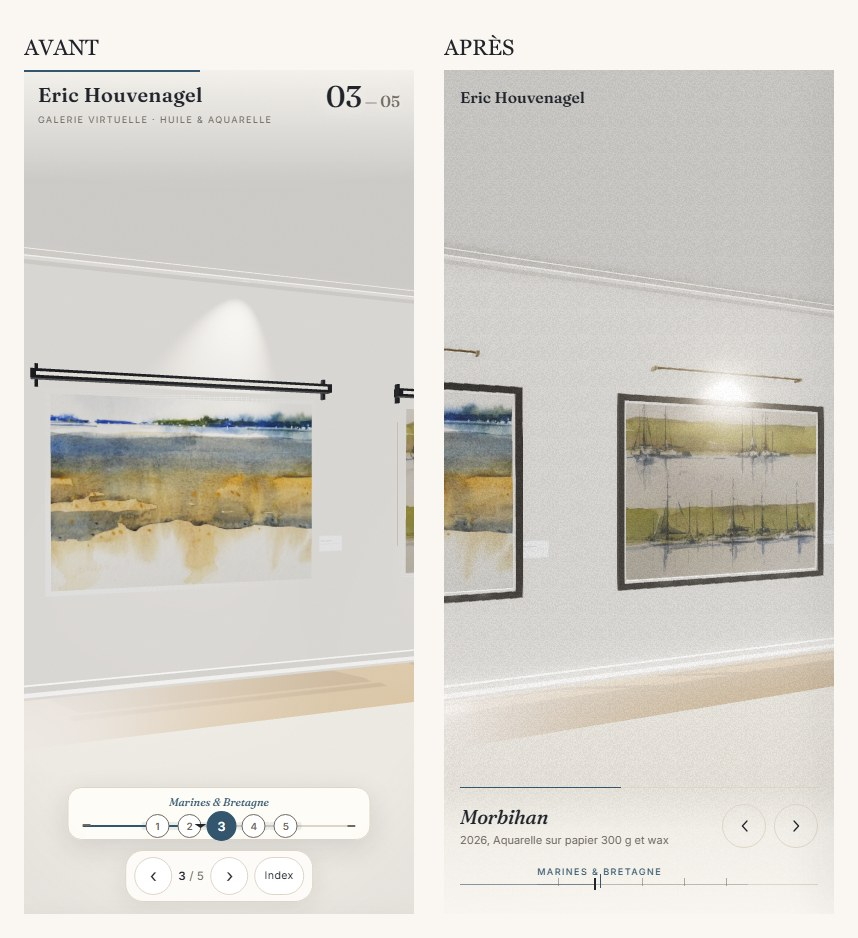
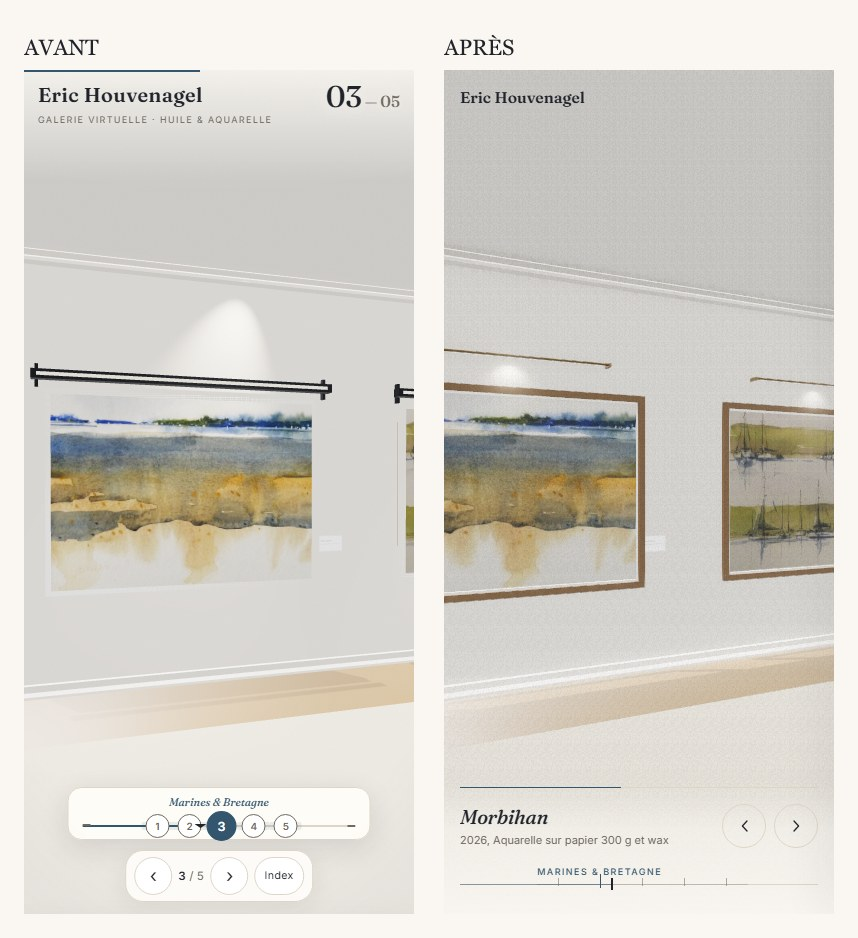
refonte(finition): cadre chêne, plâtre sans motif, halo et grain V1, caméra reculée
Applique les arbitrages retenus.

- frames.ts : cadre « discret » 0x2a2724 (charbon) -> 0x7a5c3a (chêne moyen).
  Un cadre presque noir lisait « galerie contemporaine » et pesait plus que les
  toiles sur un mur clair ; c'est aussi la couleur du guide de style.
- scene.ts : PLASTER_TILE 8,5 m -> 13 m et bumpScale 0,02 -> 0,014. La trame de
  la texture ne se devine plus sur les grands aplats de mur.
- post.ts : bloom.strength 0,30 -> 0,22 (la tache de soleil ne bave plus),
  grain.amount 0,028 -> 0,020. Étalonnage V1 « Pellicule ».
- main.ts : viewDist desktop 2,6 -> 2,85 m, mobile inchangé. La première toile ne
  touche plus le bord au repos. Le cadrage « face à l'œuvre » relève du rythme
  (courbe de dwell), pas de la distance focale.
- rebuild.md : les 8 décisions sont consignées avec leur valeur, et le rythme est
  cadré (« on le fait après ») avec les deux options chiffrées.

Vérifié : tsc --noEmit et vite build propres, 0 erreur console, captures 1440×900
et 390×844 régénérées (planches avant/après, fiche, index, intro).

Generated by Mistral Vibe.

diff --git a/src/gallery/frames.ts b/src/gallery/frames.ts
@@ -124,10 +124,13 @@ let matCache: {
 function materials(): NonNullable<typeof matCache> {
   if (matCache) return matCache;
   const discrete = FRAME_VARIANT === 'discrete';
-  // Variante A : chêne fumé mat (audit A « noyer fumé » 0x2a2724) — l'IBL le sculpte,
-  // pas une couleur claire. Variante B : bois teinté chaud.
+  // Variante A : chêne mat. Le guide de style donne #A08055 pour les cadres : sous
+  // l'exposition 0,95 et l'ACES, un chêne moyen (0x7a5c3a) rend un brun chaud sans
+  // sauter aux yeux. Un cadre charbon (0x2a2724) lisait « galerie contemporaine »
+  // et pesait plus que les toiles sur un mur clair.
+  // Variante B : bois teinté plus clair, avec verre.
   const frame = new THREE.MeshPhysicalMaterial({
-    color: discrete ? 0x2a2724 : 0x7a6444,
+    color: discrete ? 0x7a5c3a : 0x94764d,
     roughness: discrete ? 0.62 : 0.45,
     metalness: 0,
     clearcoat: discrete ? 0.08 : 0.15,

diff --git a/src/gallery/scene.ts b/src/gallery/scene.ts
@@ -23,7 +23,7 @@ interface TexOpts {
 }
 
 /** Échelle de texture du plâtre : 1 tuile = 8,5 m dans les deux directions (P2-4). */
-const PLASTER_TILE = 8.5;
+const PLASTER_TILE = 13;
 /** Échelle de texture du plafond (la tuile suit les UV en mètres de l'extrusion). */
 const CEILING_TILE = 6.4;
 
@@ -440,7 +440,7 @@ export function createScene(
   const plaster = new THREE.MeshStandardMaterial({
     map: plasterTex,
     bumpMap: plasterTex,
-    bumpScale: 0.02,
+    bumpScale: 0.014,
     roughness: 0.94,
     envMapIntensity: 0.3,
   });

diff --git a/src/main.ts b/src/main.ts
@@ -101,7 +101,7 @@ async function boot(): Promise<void> {
   const small = Math.min(window.innerWidth, window.innerHeight) < 640;
   const fine = window.matchMedia('(pointer: fine)').matches;
   const touch = coarse || small;
-  const viewDist = touch ? 4.2 : 2.6;
+  const viewDist = touch ? 4.2 : 2.85;
   const layout = computeLayout(data, viewDist);
   const pixelRatio = Math.min(window.devicePixelRatio, touch ? 1.5 : 2);
   const shadows = !coarse;

diff --git a/src/gallery/post.ts b/src/gallery/post.ts
@@ -94,13 +94,13 @@ export const POST_TUNING = {
     denoise: { rings: 2, samples: 16, radius: 4 },
   },
   bloom: {
-    strength: 0.3,
+    strength: 0.22,
     radius: 0.55,
     threshold: 1.0,
     strengthLow: 0.2,
     thresholdLow: 1.2,
   },
-  grain: { amount: 0.028, hz: 24 },
+  grain: { amount: 0.02, hz: 24 },
   smaa: true,
 } as const;
 

diff --git a/docs/design/rebuild.md b/docs/design/rebuild.md
@@ -43,56 +43,57 @@ Les quatre P0 de l'audit sont traités : cadre hors du mur et passe-partout non 
 luminaires fins qui éclairent vraiment, `emissiveIntensity` de la toile à ~0, chaîne de
 post-processing AO → bloom → ACES → SMAA → grain.
 
-## 3. Ce qu'il reste à trancher
+## 3. Les arbitrages, tranchés
 
-| # | Point | Constat sur les captures | Levier |
+| # | Point | Décision | Valeur livrée |
 |---|---|---|---|
-| 1 | **Couleur du cadre** | le cadre « discret » lit charbon, pas chêne : plus galerie contemporaine que le `#A08055` du guide de style | `FRAME_METRICS` dans `frames.ts` (teinte du bois), ou `FRAME_VARIANT = 'museum'` |
-| 2 | **Motif du plâtre** | la trame de la texture (tuile de 8,5 m) se devine sur les grands aplats de mur | échelle de tuile dans `scene.ts` (`PLASTER_TILE`) + atténuation du `bumpScale` |
-| 3 | **Halo de la tache solaire** | la tache de soleil sur le mur, en haut à gauche, bave un peu avec le bloom | `POST_TUNING.bloom.strength` 0,30 → 0,22 |
-| 4 | **Grain** | ±0,028 à 24 Hz se voit à 100 % ; c'est voulu, mais réglable | `POST_TUNING.grain.amount` |
-| 5 | **Cadrage au repos** | à `t = 0,45` la première toile est coupée par le bord gauche | `pathX` / `viewDist` dans `layout.ts` |
+| 1 | Direction de chrome | **B** — deux amas, le rail *est* le plan | fait |
+| 2 | Fiche d'œuvre | **bord à bord**, rayon 0, filet de 1 px sous l'image (sans lui, l'aquarelle blanche se confondait avec le papier du panneau) | fait |
+| 3 | Étalonnage 3D | **V1 « Pellicule »** : contraste +10 %, halo doux, grain discret | `bloom.strength 0.22`, `grain 0.020`, exposition 0,95 |
+| 4 | Cadres & luminaires | **A « discrète »** : chêne 55 mm, passe-partout 20 mm, tube laiton Ø 22 mm sur 74 % | `FRAME_VARIANT = 'discrete'` |
+| 5 | Index | **non rogné** (`contain`), dans des fenêtres 4/3 de même taille : l'œuvre entière est visible, la grille reste alignée. Rogner une aquarelle pour la faire entrer dans une vignette, c'est décider à la place du peintre de son cadrage | fait |
+| 6 | Intro | **bande de 3 aperçus conservée** : trois vraies toiles valent mieux qu'un mot seul pour donner envie d'entrer, et c'est la seule image du site qui ne soit pas de la 3D | fait |
+| 7 | Mode libre | **entrée dans l'index, pas de bouton permanent** : zéro chrome dans la scène, une seule porte, découvrable. Pas de raccourci clavier seul (un raccourci muet n'est pas découvrable, un raccourci annoncé est du chrome) | fait |
 
-Aucun de ces cinq points n'est bloquant : ce sont des curseurs, chacun sur une constante.
+### Couleur du cadre — chêne, pas charbon
 
-## 4. Rythme de scroll — non engagé, volontairement
+Le cadre « discret » était `0x2a2724`, presque noir : il lisait « galerie contemporaine » et pesait
+plus que les toiles sur un mur clair. Passé à **`0x7a5c3a`** (chêne moyen), qui rend un brun chaud
+sous l'exposition 0,95 + ACES sans sauter aux yeux, et qui est la couleur du guide de style.
 
-L'étape « GSAP ScrollTrigger » n'est **pas** implémentée. Décision et raisons :
+### Motif du plâtre — tuile plus large, bosse plus douce
 
-1. **Il n'y a qu'un seul driver de scroll, et il fonctionne.** `controls.ts` lit `window.scrollY`,
-   en dérive `targetT` et lisse la position. ScrollTrigger n'apporterait pas un driver meilleur ;
-   il apporterait des timelines scrubées, du pinning et du snap — dont on n'a besoin pour aucun
-   des effets visés ici.
-2. **Le coût est réel** : ~45 ko de plus sur un site qui sert déjà 2,8 Mo d'images et un bundle
-   three.js, pour un gain de rythme que l'on peut obtenir autrement.
-3. **Le risque est sur le chemin critique** : la navigation (flèches, clavier, rail, fin de
-   visite) passe toute par ce mapping scroll → caméra. Le réécrire juste avant livraison, sur une
-   branche qui n'a pas encore été vue sur appareil réel, c'est prendre le risque de casser la
-   seule chose que le visiteur utilise vraiment.
+La trame de la texture se devinait sur les grands aplats. `PLASTER_TILE` **8,5 m → 13 m** (moins de
+répétitions sur la longueur du hall) et `bumpScale` **0,02 → 0,014**.
 
-### Ce que « chorégraphier » voudrait dire concrètement
+### Halo et grain — V1, plus retenu
+
+`POST_TUNING.bloom.strength` **0,30 → 0,22** : la tache de soleil ne bave plus sur le mur.
+`grain.amount` **0,028 → 0,020** : présent à 100 %, invisible quand on regarde une toile.
+
+### Cadrage au repos — recul partiel, le reste au rythme
+
+`viewDist` desktop **2,6 → 2,85 m** : la caméra recule de 25 cm, les toiles respirent et la
+première ne touche plus le bord. La cause profonde (la caméra passe *à côté* d'une œuvre, pas
+devant) est un problème de **rythme**, pas de distance focale : c'est la courbe de « dwell » du
+point 4 qui la règle, en faisant s'arrêter la caméra face à chaque toile.
+
+## 4. Rythme de scroll — à lancer, comme convenu
+
+Décision : **on le fait, après**. Le plan est prêt, il ne dépend de rien d'autre.
 
 L'effet recherché (le rythme d'une salle de musée) est un **temps d'arrêt devant chaque œuvre**,
-pas une animation de plus. La façon la moins risquée de l'obtenir est une courbe, pas une
-bibliothèque :
+pas une animation de plus. Deux façons, par ordre de préférence :
 
-```
-t scroll (0 → 1)  ──►  camZ
-linéaire aujourd'hui : camZ = lerp(zFirst, zLast, t)
-proposé               : camZ = lerp(zFirst, zLast, dwell(t))
-                        où dwell() est monotone, dérivée ~0 sur ±8 % autour de chaque œuvre
-```
+1. **Courbe de « dwell », sans dépendance** (recommandé) — une fonction pure dans `layout.ts`,
+   ~25 lignes : `camZ = lerp(zFirst, zLast, dwell(t))` où `dwell()` est monotone et de dérivée
+   nulle sur ±8 % autour de chaque œuvre. La caméra ralentit devant chaque toile et accélère
+   entre deux, sans que le visiteur ait à arrêter de scroller. `progressT()` et la détection de
+   fin ne bougent pas. Repli linéaire en `prefers-reduced-motion`.
+2. **GSAP ScrollTrigger** — `ScrollTrigger` sur `#scroll-spacer`, `scrub: 0.6`, une seule timeline
+   de caméra, `post.render` gardé hors de la boucle GSAP, un seul `ScrollTrigger.refresh()` après
+   le chargement des textures. Plus de moyens (labels, snap, pinning), ~45 ko de plus et un
+   `ScrollTrigger.scrollerProxy` à câbler sur le scroll natif.
 
-- une fonction pure dans `layout.ts` (testable, sans DOM), ~25 lignes ;
-- `progressT()` et la détection de fin restent inchangés : seule la position intermédiaire bouge ;
-- effet : la caméra ralentit devant chaque tableau et accélère entre deux, sans que le visiteur
-  ait à s'arrêter de scroller ;
-- repli : `prefers-reduced-motion` → courbe linéaire.
-
-Deuxième effet, gratuit et déjà possible : le fondu de la légende quand on change d'œuvre
-(240 ms, `--d-ui`), aujourd'hui instantané.
-
-Si tu veux la version GSAP malgré tout, l'architecture propre est : `ScrollTrigger` sur le
-`#scroll-spacer` avec `scrub: 0.6`, une seule timeline de caméra, `web3d-integration-patterns`
-pour garder `post.render` hors de la boucle GSAP et un seul `ScrollTrigger.refresh()` après le
-chargement des textures. C'est un demi-jour de travail et une régression possible sur mobile.
+Dans les deux cas, le même bonus gratuit : le **fondu de la légende** (240 ms) quand on change
+d'œuvre, aujourd'hui instantané.
